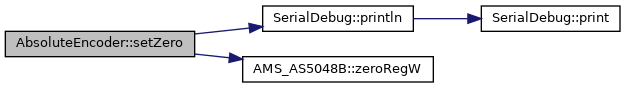
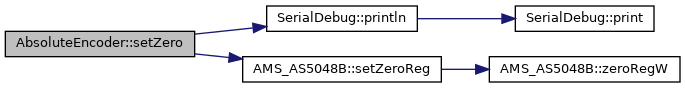
Deploying to gh-pages from @ Team-Isaac-Polito/PicoLowLevel@fa7a238a6992bc40642364abf0df04f512ae99b3 🚀

Changed region(s): [[0.0, 0.0455, 1.0, 0.9545], [0.7296, 0.0455, 1.0, 0.3636]]

diff --git a/classAMS__AS5048B.html b/classAMS__AS5048B.html
@@ -644,6 +644,15 @@ Here is the call graph for this function:</div>
 <area shape="rect" href="classAMS__AS5048B.html#a67cbd882f0300705d615ce1e2dff2f47" title="writes the 2 bytes Zero position register value" alt="" coords="252,5,443,32"/>
 </map>
 </div>
+<div class="dynheader">
+Here is the caller graph for this function:</div>
+<div class="dyncontent">
+<div class="center"><img src="classAMS__AS5048B_ad67ba3de9224a12102a31b35829450e8_icgraph.png" border="0" usemap="#aclassAMS__AS5048B_ad67ba3de9224a12102a31b35829450e8_icgraph" alt=""/></div>
+<map name="aclassAMS__AS5048B_ad67ba3de9224a12102a31b35829450e8_icgraph" id="aclassAMS__AS5048B_ad67ba3de9224a12102a31b35829450e8_icgraph">
+<area shape="rect" title="sets current angle as the zero position" alt="" coords="243,5,441,32"/>
+<area shape="rect" href="classAbsoluteEncoder.html#a26b4493f44904d31dab6f5fd3e9c734e" title="Sets the encoder current position to zero." alt="" coords="5,5,195,32"/>
+</map>
+</div>
 
 </div>
 </div>
@@ -761,9 +770,9 @@ Here is the caller graph for this function:</div>
 <div class="dyncontent">
 <div class="center"><img src="classAMS__AS5048B_a67cbd882f0300705d615ce1e2dff2f47_icgraph.png" border="0" usemap="#aclassAMS__AS5048B_a67cbd882f0300705d615ce1e2dff2f47_icgraph" alt=""/></div>
 <map name="aclassAMS__AS5048B_a67cbd882f0300705d615ce1e2dff2f47_icgraph" id="aclassAMS__AS5048B_a67cbd882f0300705d615ce1e2dff2f47_icgraph">
-<area shape="rect" title="writes the 2 bytes Zero position register value" alt="" coords="252,31,443,57"/>
-<area shape="rect" href="classAbsoluteEncoder.html#a26b4493f44904d31dab6f5fd3e9c734e" title="Sets the encoder current position to zero." alt="" coords="10,5,199,32"/>
-<area shape="rect" href="classAMS__AS5048B.html#ad67ba3de9224a12102a31b35829450e8" title="sets current angle as the zero position" alt="" coords="5,56,204,83"/>
+<area shape="rect" title="writes the 2 bytes Zero position register value" alt="" coords="489,5,680,32"/>
+<area shape="rect" href="classAMS__AS5048B.html#ad67ba3de9224a12102a31b35829450e8" title="sets current angle as the zero position" alt="" coords="243,5,441,32"/>
+<area shape="rect" href="classAbsoluteEncoder.html#a26b4493f44904d31dab6f5fd3e9c734e" title="Sets the encoder current position to zero." alt="" coords="5,5,195,32"/>
 </map>
 </div>
 

diff --git a/classAbsoluteEncoder.html b/classAbsoluteEncoder.html
@@ -241,9 +241,10 @@ Here is the call graph for this function:</div>
 <div class="center"><img src="classAbsoluteEncoder_a26b4493f44904d31dab6f5fd3e9c734e_cgraph.png" border="0" usemap="#aclassAbsoluteEncoder_a26b4493f44904d31dab6f5fd3e9c734e_cgraph" alt=""/></div>
 <map name="aclassAbsoluteEncoder_a26b4493f44904d31dab6f5fd3e9c734e_cgraph" id="aclassAbsoluteEncoder_a26b4493f44904d31dab6f5fd3e9c734e_cgraph">
 <area shape="rect" title="Sets the encoder current position to zero." alt="" coords="5,31,195,57"/>
-<area shape="rect" href="classSerialDebug.html#a153ed172ea7eefd852292af7561ff961" title="Sends a line to the serial port with a debug level, only if it is lower than the setted one." alt="" coords="263,5,413,32"/>
-<area shape="rect" href="classAMS__AS5048B.html#a67cbd882f0300705d615ce1e2dff2f47" title="writes the 2 bytes Zero position register value" alt="" coords="243,56,433,83"/>
-<area shape="rect" href="classSerialDebug.html#a3d01753681fd740869da197b2fa772b0" title="Sends a string to the Serial port with a debug level, only if it is lower than the setted one." alt="" coords="481,5,620,32"/>
+<area shape="rect" href="classSerialDebug.html#a153ed172ea7eefd852292af7561ff961" title="Sends a line to the serial port with a debug level, only if it is lower than the setted one." alt="" coords="267,5,417,32"/>
+<area shape="rect" href="classAMS__AS5048B.html#ad67ba3de9224a12102a31b35829450e8" title="sets current angle as the zero position" alt="" coords="243,56,441,83"/>
+<area shape="rect" href="classSerialDebug.html#a3d01753681fd740869da197b2fa772b0" title="Sends a string to the Serial port with a debug level, only if it is lower than the setted one." alt="" coords="515,5,654,32"/>
+<area shape="rect" href="classAMS__AS5048B.html#a67cbd882f0300705d615ce1e2dff2f47" title="writes the 2 bytes Zero position register value" alt="" coords="489,56,680,83"/>
 </map>
 </div>
 
